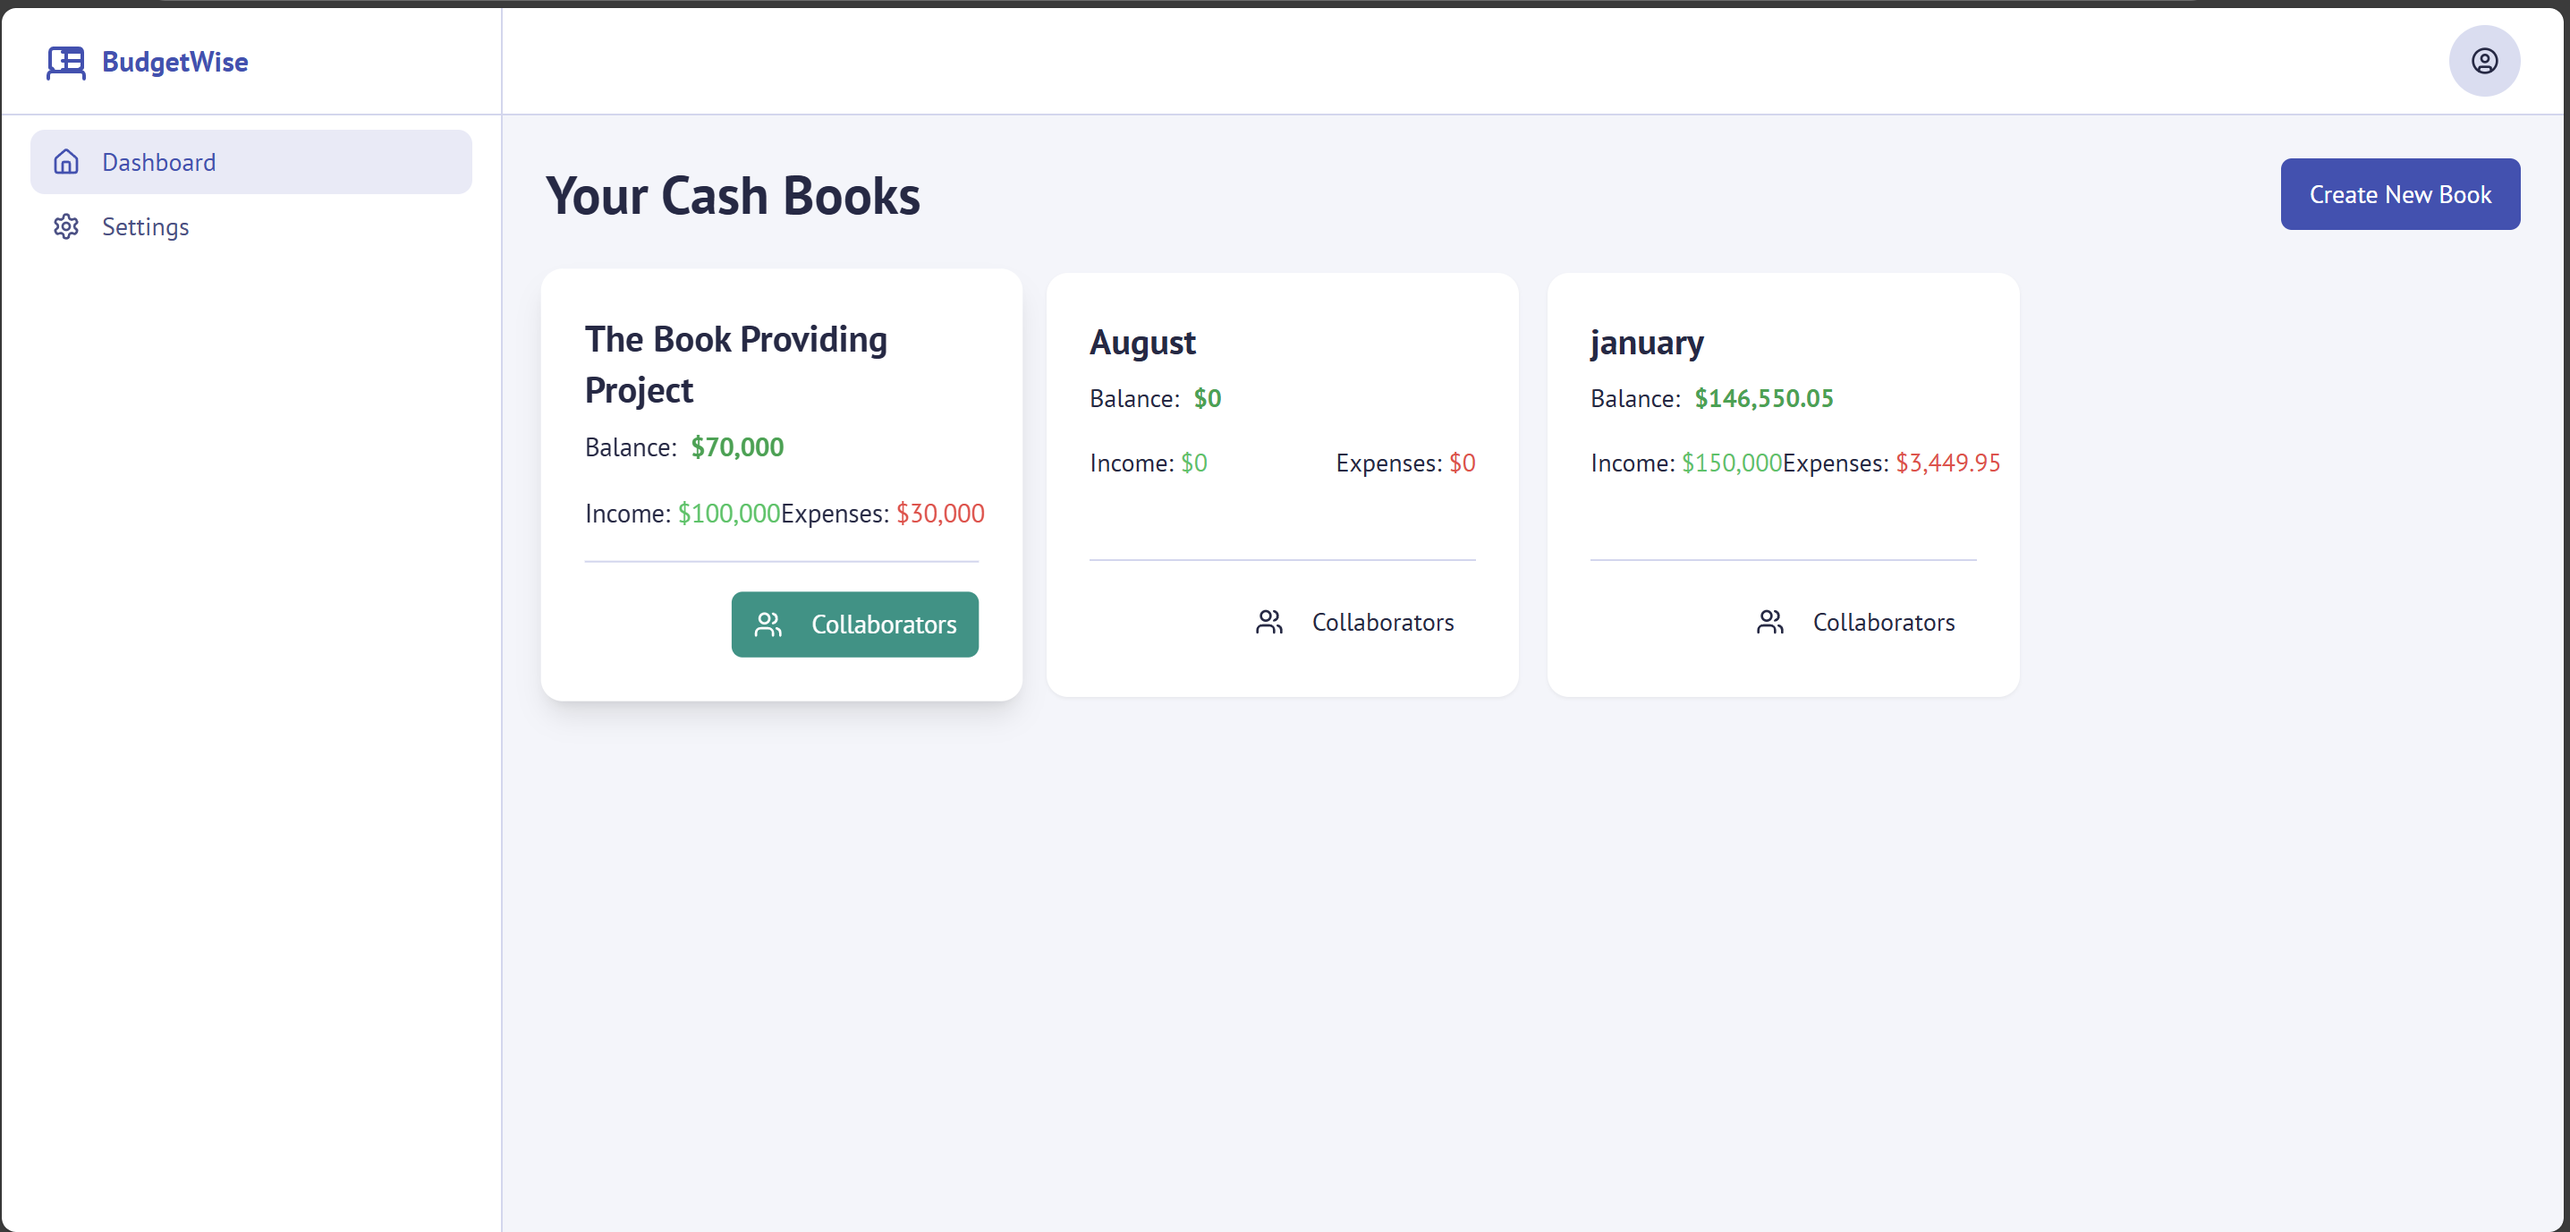
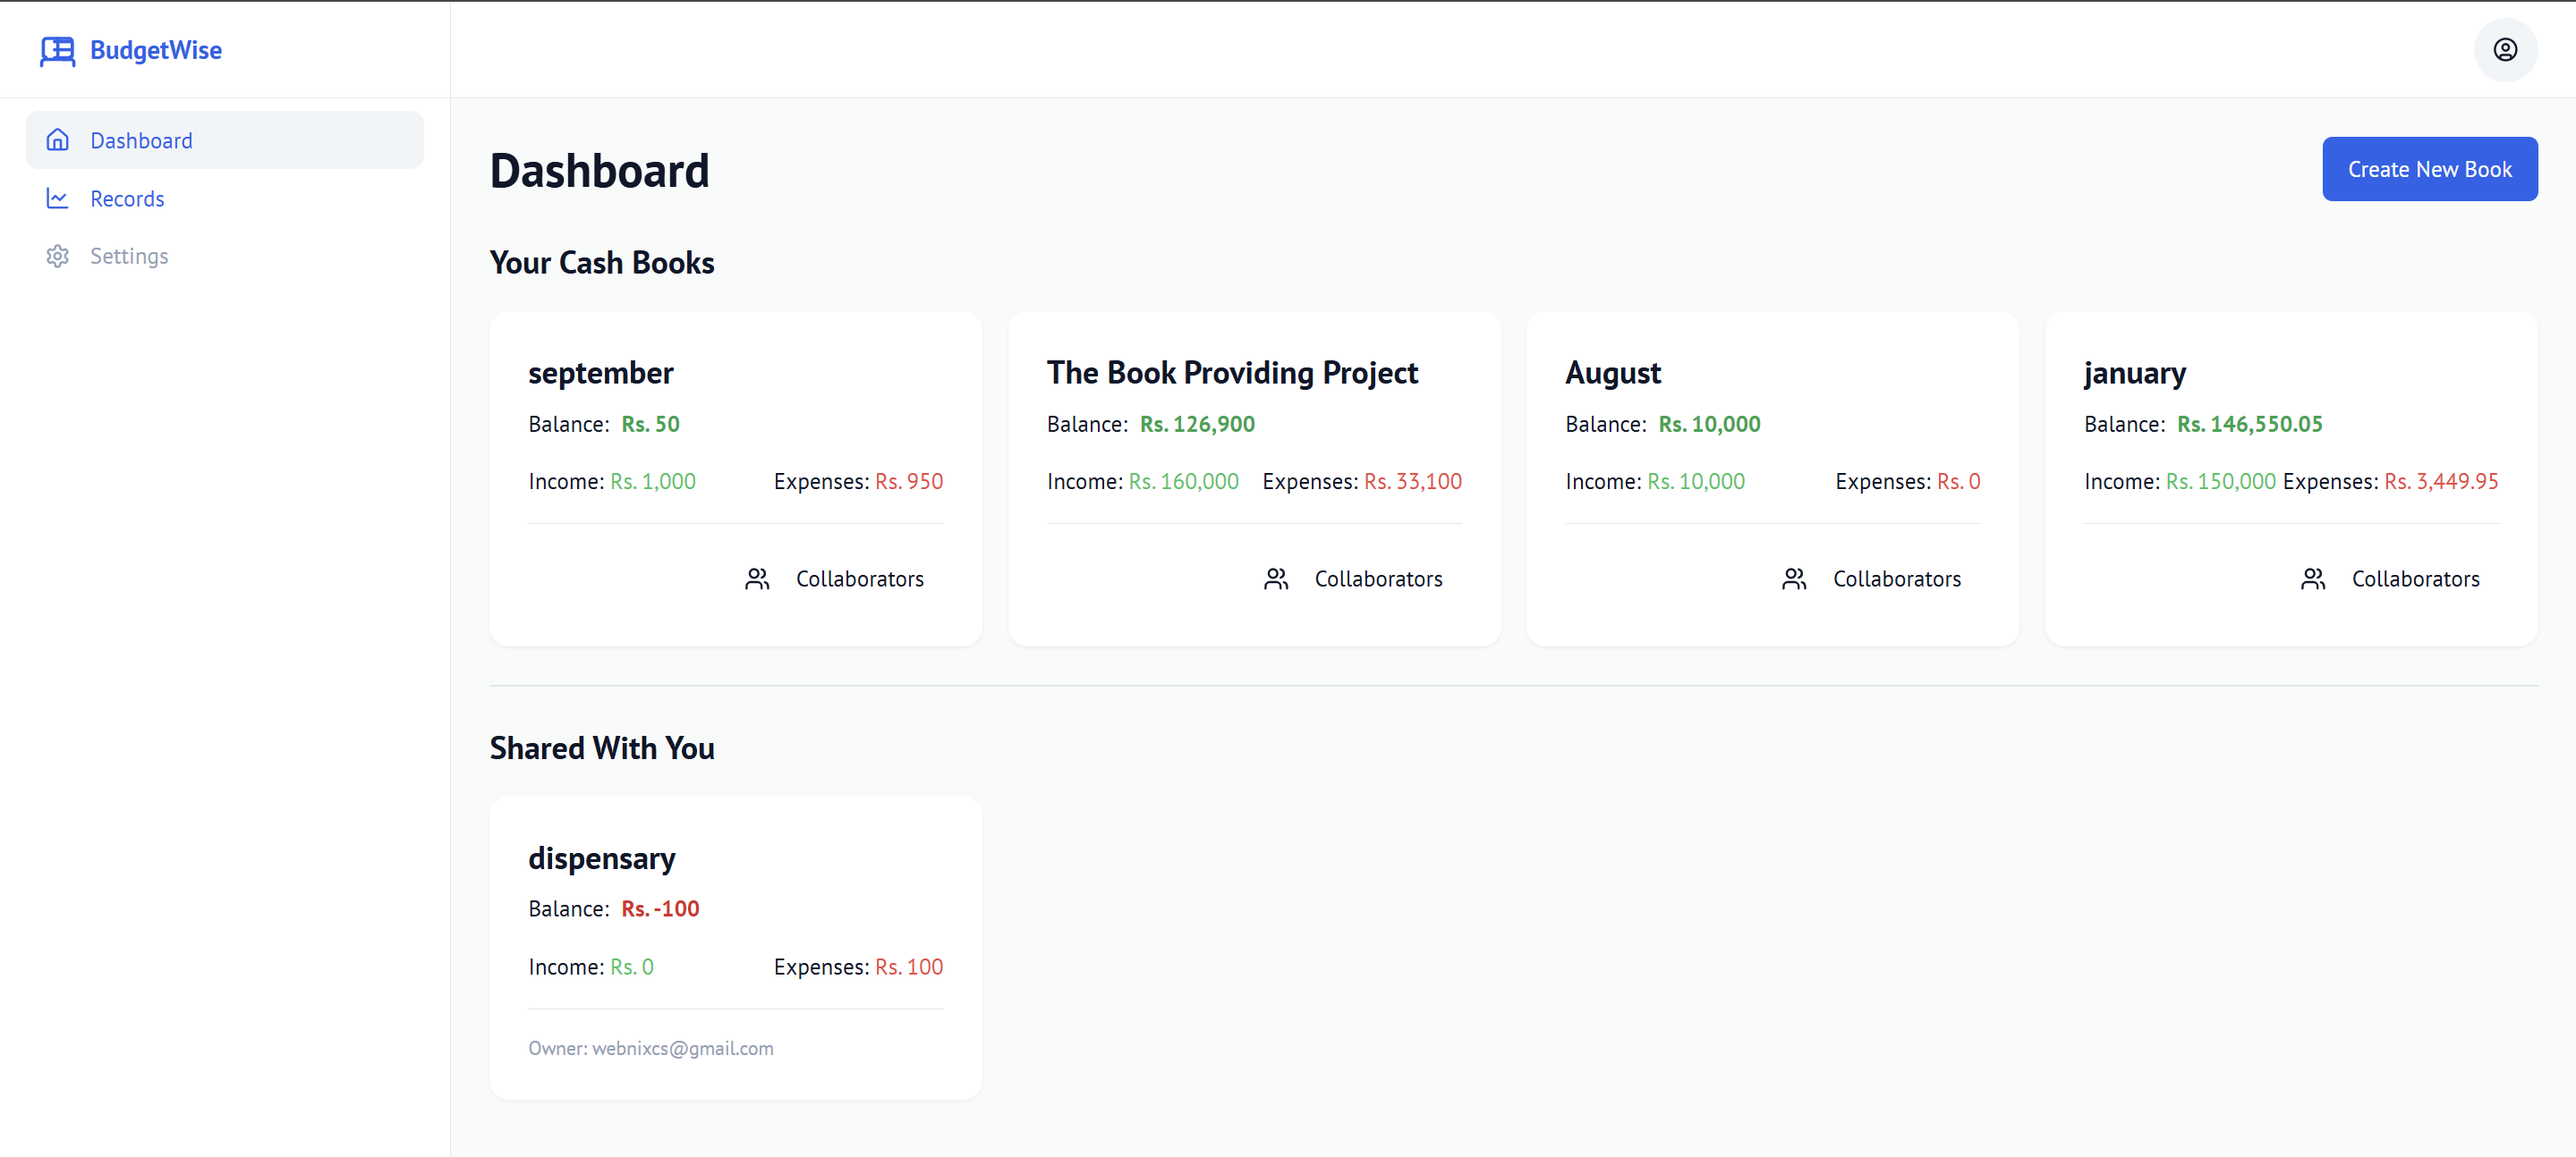
projects updated

diff --git a/src/components/Projects.tsx b/src/components/Projects.tsx
@@ -1,11 +1,14 @@
 import React from "react";
 import { ExternalLink, Github, Code, Smartphone, Globe } from "lucide-react";
 import npkImage from "../assets/npk.png";
+import npkJpeg from "../assets/npk.jpg";
 import appImage from "../assets/travelwishapp.png";
+import portfolioImage from "../assets/portfolio.png";
 import bobaImage from "../assets/bobalicious.jpeg";
 import webImage from "../assets/travelwishweb.png";
 import budgetImage from "../assets/budgetwise.png";
 import wasteImage from "../assets/waste.jpg";
+import skyCast from "../assets/skycast.jpg";
 import { useInView } from "../hooks/useInView";
 
 const Projects = () => {
@@ -23,7 +26,7 @@ const Projects = () => {
       icon: <Smartphone className="text-emerald-500" size={20} />,
       status: "Completed",
       github: "https://github.com/chandupasasmitha/Travel-Wish",
-      demo: "https://travelwish-app-demo.com",
+      demo: "https://www.linkedin.com/posts/chandupa-sasmitha_travelwish-fullstackdevelopment-flutter-activity-7381954290413793280-JdYP?utm_source=share&utm_medium=member_desktop&rcm=ACoAAEOIoX0B82BQRTJ7IcW9pVPTL9MzAmKWHuI",
     },
     {
       title: "TravelWish - Part II",
@@ -35,7 +38,7 @@ const Projects = () => {
       icon: <Globe className="text-blue-500" size={20} />,
       status: "Completed",
       github: "https://github.com/CodeCraftersUOM",
-      demo: "https://travelwish-service-provider-demo.com",
+      demo: "https://www.linkedin.com/posts/dulanjana-dilshan-6bb13a2ba_proud-to-announce-the-successful-completion-ugcPost-7380465453787262976-aORv?utm_source=share&utm_medium=member_desktop&rcm=ACoAAEOIoX0B82BQRTJ7IcW9pVPTL9MzAmKWHuI",
     },
     {
       title: "NPK Data Tracker Web App",
@@ -49,6 +52,19 @@ const Projects = () => {
       github: "https://github.com/nethmalgunawardhana/NPK-Data-Tracker",
       demo: "https://npk-data-tracker-655de.web.app",
     },
+
+    {
+      title: "Budgetwise",
+      description:
+        "Built a company budget management website with ledger creation for specific months or tasks, collaborator access control, and dynamic chart visualizations for financial insights.",
+      image: budgetImage,
+      tech: ["Next.js", "Tailwind CSS", "Firebase", "TypeScript"],
+      category: "Full-Stack",
+      icon: <Globe className="text-blue-500" size={20} />,
+      status: "Completed",
+      github: "https://github.com/chandupasasmitha/budgetwise",
+      demo: "https://budgetwise-one.vercel.app/dashboard",
+    },
     {
       title: "E-Commerce Platform - Bobalicious",
       description:
@@ -59,49 +75,70 @@ const Projects = () => {
       icon: <Globe className="text-blue-500" size={20} />,
       status: "Completed",
       github: "https://github.com/chandupasasmitha/BOBALICIOUS",
-      demo: "https://bobalicious-demo.com",
+      demo: "https://www.linkedin.com/posts/chandupa-sasmitha_webdevelopment-ecommerce-bubbletea-activity-7298650173512003585-_gMQ?utm_source=share&utm_medium=member_desktop&rcm=ACoAAEOIoX0B82BQRTJ7IcW9pVPTL9MzAmKWHuI",
     },
-    {
-      title: "Budgetwise",
-      description:
-        "Built a company budget management website with ledger creation for specific months or tasks, collaborator access control, and dynamic chart visualizations for financial insights.",
-      image: budgetImage,
-      tech: ["Next.js", "Tailwind CSS", "Firebase", "TypeScript"],
-      category: "Full-Stack",
-      icon: <Globe className="text-blue-500" size={20} />,
-      status: "In Development",
-      github: "https://github.com/chandupasasmitha/budgetwise",
-      demo: "https://mindlink-demo.com",
-    },
+
     {
       title: "Waste Management Mobile App",
       description:
         "A waste management app concept that connects users with nearby collectors, shows collection schedules, and rewards proper disposal. Points earned can be redeemed for essentials at supermarkets and grocery stores, promoting sustainable living.",
       image: wasteImage,
-      tech: ["Flutter", "Node.js", "Express.js", "MongoDB"],
+      tech: ["React Native", "Node.js", "Express.js", "MongoDB"],
       category: "Full-Stack",
       icon: <Globe className="text-blue-500" size={20} />,
-      status: "Concept",
+      status: "in Development",
       github: "https://github.com/yourusername/waste-management-app",
-      demo: "https://waste-management-app-demo.com",
+      demo: "",
+    },
+    {
+      title: "Portfolio",
+      description:
+        "Personal portfolio website showcasing projects, skills, and contact information. Built with Vite, React, TypeScript and Tailwind CSS; includes a contact form integrated with EmailJS.",
+      image: portfolioImage,
+      tech: ["React", "TypeScript", "Vite", "Tailwind CSS"],
+      category: "Web",
+      icon: <Globe className="text-blue-500" size={20} />,
+      status: "Completed",
+      github: "https://github.com/chandupasasmitha/portfolio",
+      demo: "chandupasasmitha.me",
+    },
+    {
+      title: "Smart Soil Monitor (NPK)",
+      description:
+        "Level‑01 IoT device that measures soil NPK and displays readings on an LCD, website and mobile app; caches data to SD when offline and gives immediate soil suitability feedback.",
+      image: npkJpeg,
+      tech: [
+        "ESP32",
+        "NPK Sensor",
+        "LCD",
+        "SD Card",
+        "Wi‑Fi",
+        "React",
+        "React Native",
+      ],
+      category: "IoT",
+      icon: <Globe className="text-amber-400" size={20} />,
+      status: "Completed",
+      github: "",
+      demo: "https://www.linkedin.com/posts/chandupa-sasmitha_smartsoiltracker-agritech-iot-activity-7362745836004388864-F8dJ?utm_source=share&utm_medium=member_desktop&rcm=ACoAAEOIoX0B82BQRTJ7IcW9pVPTL9MzAmKWHuI",
+    },
+    {
+      title: "Weather Forecasting App",
+      description:
+        "React Native (Expo) app that fetches current weather and hourly forecasts via OpenWeatherMap; users search by city for instant temp, humidity and condition updates.",
+      image: skyCast,
+      tech: ["React Native", "Expo", "OpenWeatherMap API", "JavaScript"],
+      category: "Mobile",
+      icon: <Smartphone className="text-emerald-500" size={20} />,
+      status: "Completed",
+      github: "https://github.com/chandupasasmitha/WeatherApp",
+      demo: "https://www.linkedin.com/in/chandupa-sasmitha/details/projects/",
     },
   ];
 
   return (
     <section id="projects" className="py-20 bg-gray-900">
       <div className="max-w-7xl mx-auto px-4 sm:px-6 lg:px-8">
-        <div
-          ref={titleRef}
-          className={`text-center mb-16 transition-all duration-700 ease-out ${
-            isTitleInView
-              ? "opacity-100 translate-y-0"
-              : "opacity-0 translate-y-10"
-          }`}
-        >
-          <h2 className="text-4xl font-bold text-white mb-4">Projects</h2>
-          <div className="w-24 h-1 bg-gradient-to-r from-blue-500 to-cyan-500 mx-auto mb-6"></div>
-        </div>
-
         <div ref={gridRef} className="grid md:grid-cols-2 lg:grid-cols-3 gap-8">
           {projects.map((project, index) => (
             <div
@@ -151,17 +188,6 @@ const Projects = () => {
                 <p className="text-gray-400 mb-4 leading-relaxed text-sm flex-grow">
                   {project.description}
                 </p>
-                <div className="flex flex-wrap gap-2 mb-4">
-                  {project.tech.map((tech, techIndex) => (
-                    <span
-                      key={techIndex}
-                      className="px-3 py-1 bg-cyan-500/10 text-cyan-300 rounded-full text-xs font-medium"
-                    >
-                      {tech}
-                    </span>
-                  ))}
-                </div>
-
                 {/* GitHub and Demo links */}
                 <div className="flex space-x-4 mt-auto pt-4 border-t border-gray-700/50">
                   {project.github && (

diff --git a/src/components/Skills.tsx b/src/components/Skills.tsx
@@ -15,6 +15,7 @@ const Skills = () => {
           name: "React",
           logo: "https://cdn.jsdelivr.net/gh/devicons/devicon/icons/react/react-original.svg",
         },
+
         {
           name: "Next.js",
           logo: "https://cdn.jsdelivr.net/gh/devicons/devicon/icons/nextjs/nextjs-original.svg",
@@ -23,6 +24,16 @@ const Skills = () => {
           name: "TypeScript",
           logo: "https://cdn.jsdelivr.net/gh/devicons/devicon/icons/typescript/typescript-original.svg",
         },
+        {
+          name: "Flutter",
+          logo: "https://cdn.jsdelivr.net/gh/devicons/devicon/icons/flutter/flutter-original.svg",
+        },
+        {
+          name: "React Native",
+          // React logo used as a close visual; replace with a React Native-specific asset if desired
+          logo: "https://cdn.jsdelivr.net/gh/devicons/devicon/icons/react/react-original.svg",
+        },
+
         {
           name: "JavaScript",
           logo: "https://cdn.jsdelivr.net/gh/devicons/devicon/icons/javascript/javascript-original.svg",
@@ -89,10 +100,6 @@ const Skills = () => {
       title: "DevOps",
       icon: <Cloud className="w-5 h-5" />,
       skills: [
-        {
-          name: "AWS",
-          logo: "https://cdn.jsdelivr.net/gh/devicons/devicon@latest/icons/amazonwebservices/amazonwebservices-plain-wordmark.svg",
-        },
         {
           name: "Docker",
           logo: "https://cdn.jsdelivr.net/gh/devicons/devicon/icons/docker/docker-original.svg",
